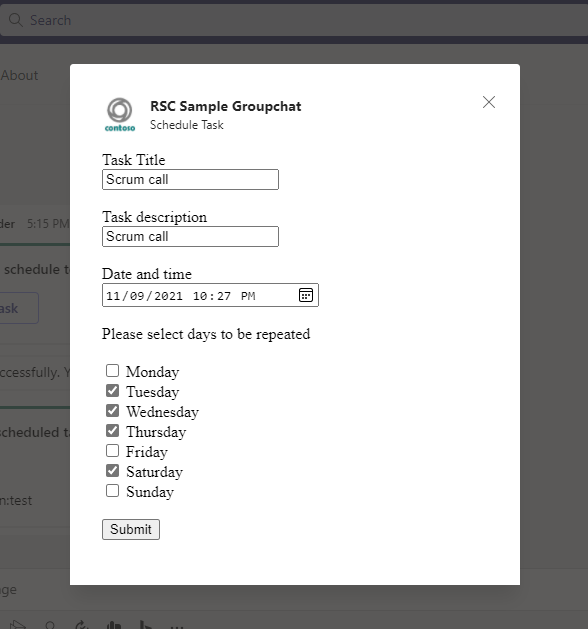
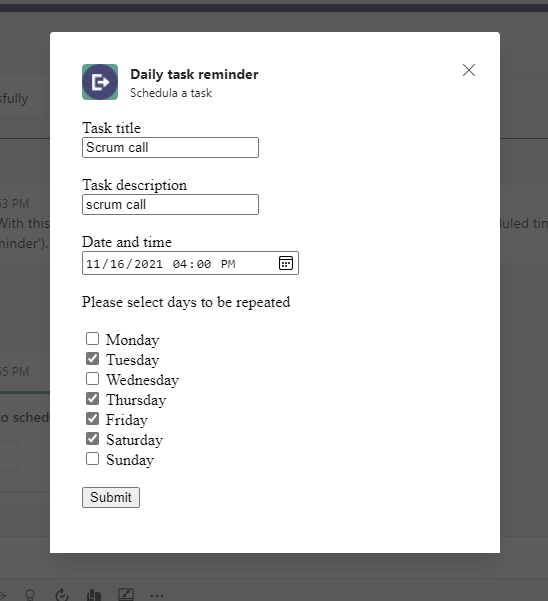
resolving PR comments

diff --git a/samples/bot-daily-task-reminder/csharp/BotDailyTaskReminder/Bots/ActivityBot.cs b/samples/bot-daily-task-reminder/csharp/BotDailyTaskReminder/Bots/ActivityBot.cs
@@ -28,7 +28,11 @@ namespace BotDailyTaskReminder.Bots
         private readonly ConcurrentDictionary<string, ConversationReference> _conversationReferences;
         private readonly ConcurrentDictionary<string, List<SaveTaskDetail>> _taskDetails;
 
-        public ActivityBot(IConfiguration configuration, ConversationState conversationState, ConcurrentDictionary<string, ConversationReference> conversationReferences, ConcurrentDictionary<string, List<SaveTaskDetail>> taskDetails)
+        public ActivityBot(IConfiguration configuration, 
+            ConversationState conversationState, 
+            ConcurrentDictionary<string, 
+            ConversationReference> conversationReferences, 
+            ConcurrentDictionary<string, List<SaveTaskDetail>> taskDetails)
         {
             _conversationReferences = conversationReferences;
             _conversationState = conversationState;
@@ -107,7 +111,7 @@ namespace BotDailyTaskReminder.Bots
                         Url = _applicationBaseUrl + "/" + "ScheduleTask",
                         Height = 450,
                         Width = 450,
-                        Title = "Schedule Task",
+                        Title = "Schedula a task",
                     },
                 };
             }
@@ -158,7 +162,7 @@ namespace BotDailyTaskReminder.Bots
             
             TaskScheduler taskSchedule = new TaskScheduler();
             taskSchedule.Start(date.Hour, date.Minute, _applicationBaseUrl, recurringDays);
-            await turnContext.SendActivityAsync("Task submitted successfully. You will get reminder for the task at scheduled time");
+            await turnContext.SendActivityAsync("Task submitted successfully, you will get a recurring reminder for the task at a scheduled time");
 
             return null;
         }
@@ -174,7 +178,7 @@ namespace BotDailyTaskReminder.Bots
                 {
                     new AdaptiveTextBlock
                     {
-                        Text = "Please click on schedule to schedule task",
+                        Text = "Please click here to schedule a recurring task reminder",
                         Weight = AdaptiveTextWeight.Bolder,
                         Spacing = AdaptiveSpacing.Medium,
                     }
@@ -190,7 +194,7 @@ namespace BotDailyTaskReminder.Bots
                             {
                                 Type = "task/fetch",
                             },
-                            Id="schedule"
+                            Id = "schedule"
                         },
                     }
                 },

diff --git a/samples/bot-daily-task-reminder/csharp/BotDailyTaskReminder/Controllers/TaskReminderController.cs b/samples/bot-daily-task-reminder/csharp/BotDailyTaskReminder/Controllers/TaskReminderController.cs
@@ -90,20 +90,20 @@ namespace BotDailyTaskReminder.Controllers
                 {
                     new AdaptiveTextBlock
                     {
-                        Text = "Reminder for scheduled task!",
+                        Text = "Reminder for a scheduled task!",
                         Weight = AdaptiveTextWeight.Bolder,
                         Spacing = AdaptiveSpacing.Medium,
                     },
                     new AdaptiveTextBlock
                     {
-                        Text = "Task title:"+ title,
+                        Text = "Task title: "+ title,
                         Weight = AdaptiveTextWeight.Default,
                         Spacing = AdaptiveSpacing.Medium,
                         Wrap = true,
                     },
                     new AdaptiveTextBlock
                     {
-                        Text = "Task description:"+ description,
+                        Text = "Task description: "+ description,
                         Weight = AdaptiveTextWeight.Default,
                         Spacing = AdaptiveSpacing.Medium,
                         Wrap = true,

diff --git a/samples/bot-daily-task-reminder/csharp/BotDailyTaskReminder/Startup.cs b/samples/bot-daily-task-reminder/csharp/BotDailyTaskReminder/Startup.cs
@@ -64,14 +64,11 @@ namespace BotDailyTaskReminder
 
             app.UseDefaultFiles();
             app.UseStaticFiles();
-            app.UseWebSockets()
-                .UseRouting()
-                .UseAuthorization()
-                .UseEndpoints(endpoints =>
-                {
-                    endpoints.MapControllers();
-                    endpoints.MapRazorPages();
-                });
+            app.UseWebSockets().UseRouting().UseAuthorization().UseEndpoints(endpoints =>
+               {
+                   endpoints.MapControllers();
+                   endpoints.MapRazorPages();
+               });
         }
     }
 }

diff --git a/samples/bot-daily-task-reminder/csharp/BotDailyTaskReminder/Helper/TaskScheduler.cs b/samples/bot-daily-task-reminder/csharp/BotDailyTaskReminder/Helper/TaskScheduler.cs
@@ -17,9 +17,11 @@ namespace BotDailyTaskReminder
             var triggerName = Guid.NewGuid().ToString();
             var scheduler = StdSchedulerFactory.GetDefaultScheduler().GetAwaiter().GetResult();
             scheduler.Start();
+
             IJobDetail job = JobBuilder.Create<ScheduleTaskReminder>().
                                     UsingJobData("baseUrl", baseUrl).
                                     Build();
+
             ITrigger trigger = TriggerBuilder.Create()
                                     .ForJob(job)
                                     .WithCronSchedule(cronExpression)

diff --git a/samples/bot-daily-task-reminder/csharp/README.md b/samples/bot-daily-task-reminder/csharp/README.md
@@ -1,7 +1,9 @@
 
 ## Bot daily task reminder
 
-This sample shows feature where user can schedule a recurring task and get reminder on the scheduled time.
+This sample shows a feature where user can schedule a recurring task and get the reminder at scheduled time.
+
+- use command `create-reminder` to get card with actions `Schedule task`.
 
 ![Schedule task ](BotDailyTaskReminder/Images/ScheduleTaskCard.png)
 
@@ -35,7 +37,7 @@ This sample shows feature where user can schedule a recurring task and get remin
    git clone https://github.com/OfficeDev/Microsoft-Teams-Samples.git
    ```
    
-3) In a terminal, navigate to `samples/bot-task-reminder/csharp`
+3) In a folder where repository is cloned, navigate to `samples/bot-task-reminder/csharp`
 
     change into project folder
     ```bash
@@ -50,14 +52,14 @@ This sample shows feature where user can schedule a recurring task and get remin
  
 5) Modify the `manifest.json` in the `/AppPackage` folder and replace the following details:
   - `{{Microsoft-App-Id}}` with Application id generated from Step 1
-  - `{{domain-name}}` with base Url domain. E.g. if you are using ngrok it would be `1234.ngrok.io`
+  - `{{domain-name}}` with base Url domain. E.g. if you are using ngrok it would be `https://1234.ngrok.io` then your domain-name will be `*.ngrok.io`.
 
 6) Zip the contents of `AppPackage` folder into a `manifest.zip`, and use the `manifest.zip` to deploy in app store or add to Teams using step 9.
 
 7) Modify the `/appsettings.json` and fill in the following details:
   - `{{Microsoft-App-Id}}` - Generated from Step 1 is the application app id
   - `{{ Microsoft-App-Password}}` - Generated from Step 1, also referred to as Client secret
-  - `{{ Application Base Url }}` - Your application's base url. E.g. https://12345.ngrok.io if you are using ngrok.
+  - `{{ Application Base Url }}` - Your application's base url.
 
   
 8) Run the bot from a terminal or from Visual Studio, choose option A or B.
@@ -83,7 +85,7 @@ This sample shows feature where user can schedule a recurring task and get remin
 
 ## Features of this sample
 
-- Card with actions `Schedule task`. 
+- use command `create-reminder` to get card with actions `Schedule task`. 
 
 ![Schedule task ](BotDailyTaskReminder/Images/ScheduleTaskCard.png)
 

diff --git a/README.md b/README.md
@@ -23,7 +23,7 @@ Here are all the samples which are deployed on Microsoft Azure and you can try i
 |10|App installation using QR code | Sample app that generates a QR or installs app using the QR code.|[View](/demo%20manifest/App-Installation-Using-QR.zip)     |
 |11|App checkin location | Demonstrating feature where user can checkin with current location and view all previous checkins.|[View](/demo%20manifest/App-checkin-location.zip)     |
 |12|Teams tab graph toolkit | This sample demos building teams tab using microsoft graph toolkit|[View](/demo%20manifest/Teams-tab-graph-toolkit.zip)     |
-|13|Bot ddaily task reminder | This sample demos feature where user can schedule a recurring task and get reminder on the scheduled time|[View](/demo%20manifest/Bot-Daily-Task-Reminder.zip)     |
+|13|Bot daily task reminder | This sample demos a feature where user can schedule a recurring task and get a reminder on the scheduled time|[View](/demo%20manifest/Bot-Daily-Task-Reminder.zip)     |
 
 ## [Getting Started - Samples and Tutorials](https://docs.microsoft.com/microsoftteams/platform/tutorials/get-started-dotnet-app-studio)
 
@@ -150,7 +150,7 @@ Here are all the samples which are deployed on Microsoft Azure and you can try i
 |14| App Installtion  using QR code |This sample demos app installation using QR code of application's app id | [View][qrappinstallation#csharp] | [View][qrappinstallation#nodejs]
 |15| Archive groupchat messages | Demonstrating on how a bot can archive groupchat messages and send it to user as a file. | [View][fetchgroupchatmessages#csharp] |[View][fetchgroupchatmessages#nodejs]|
 |16| App check in location | Demonstrating feature where user can checkin with current location and view all previous checkins. | [View][appcheckinlocation#csharp] |[View][checkinlocation#nodejs]|
-|17| Bot daily task reminder | Demonstrating feature where user can schedule a recurring task and get reminder on the scheduled time | [View][botdailytaskreminder#csharp] ||
+|17| Bot daily task reminder | Demonstrating feature where user can schedule a recurring task and get a reminder on the scheduled time. | [View][botdailytaskreminder#csharp] ||
 
 [app-hello-world#cs]:samples/app-hello-world/csharp
 [app-hello-world#ts]:samples/app-hello-world/nodejs
